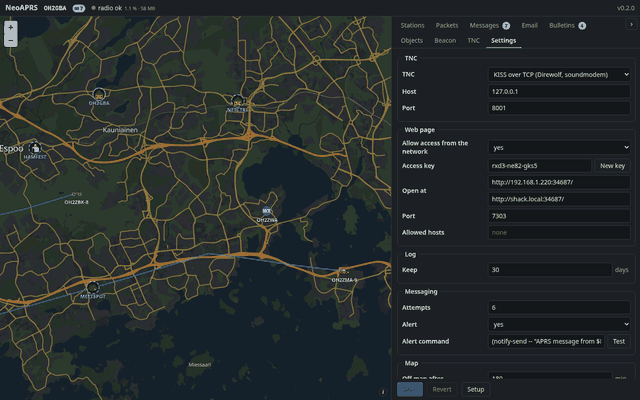
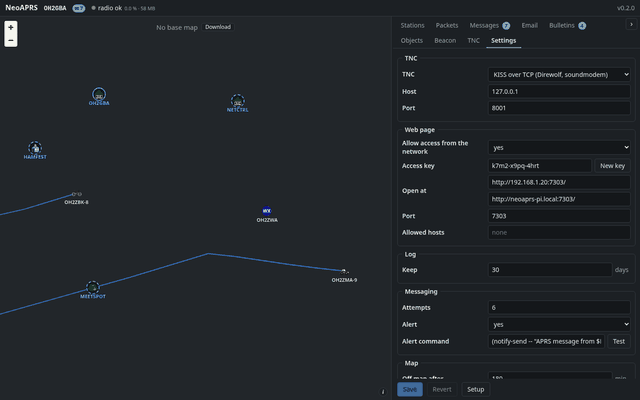
Screenshots: the Settings shot shows the made-up key and addresses too, never this machine's

diff --git a/scripts/screenshots.py b/scripts/screenshots.py
@@ -292,10 +292,8 @@ async def shot_beacon(s: Shots, _: str) -> None:
     await s.save(page, "beacon")
 
 
-async def shot_settings_web(s: Shots, _: str) -> None:
-    """Settings, the Web page group: the switch on, the access key and where to open the page (the daemon's own key and addresses are replaced by made-up ones on the screen)."""
-    page = await s.page(DESKTOP, tab="settings", view=CITY, panel=560)
-    await page.locator("legend", has_text="Web page").scroll_into_view_if_needed()
+async def made_up_web(page: Any) -> None:
+    """Puts the made-up access key and addresses in place of the daemon's own on a page that shows the Settings tab: the machine's own address and name never appear in a shot."""
     await page.evaluate("""([key, urls]) => {
         const field = document.getElementById("set-web-key");
         if (field) field.value = key;
@@ -303,6 +301,13 @@ async def shot_settings_web(s: Shots, _: str) -> None:
         while (inputs.length && inputs.length < urls.length) { const copy = inputs[0].cloneNode(true); inputs[0].parentElement.append(copy); inputs.push(copy); }
         inputs.forEach((input, i) => { if (i < urls.length) input.value = urls[i]; else input.remove(); });
     }""", [SHOWN_KEY, SHOWN_URLS])
+
+
+async def shot_settings_web(s: Shots, _: str) -> None:
+    """Settings, the Web page group: the switch on, the access key and where to open the page (the daemon's own key and addresses are replaced by made-up ones on the screen)."""
+    page = await s.page(DESKTOP, tab="settings", view=CITY, panel=560)
+    await page.locator("legend", has_text="Web page").scroll_into_view_if_needed()
+    await made_up_web(page)
     await page.evaluate("document.querySelector('#pane-settings fieldset:has(#set-web-key)')?.scrollIntoView({block: 'start'})")
     await settle(page, 400)
     await s.save(page, "settings-web")
@@ -317,6 +322,8 @@ async def shot_phone_key(s: Shots, _: str) -> None:
 
 async def shot_settings(s: Shots, _: str) -> None:
     page = await s.page(DESKTOP, tab="settings", view=CITY, panel=560)
+    await made_up_web(page)
+    await settle(page, 400)
     await s.save(page, "settings")
 
 
